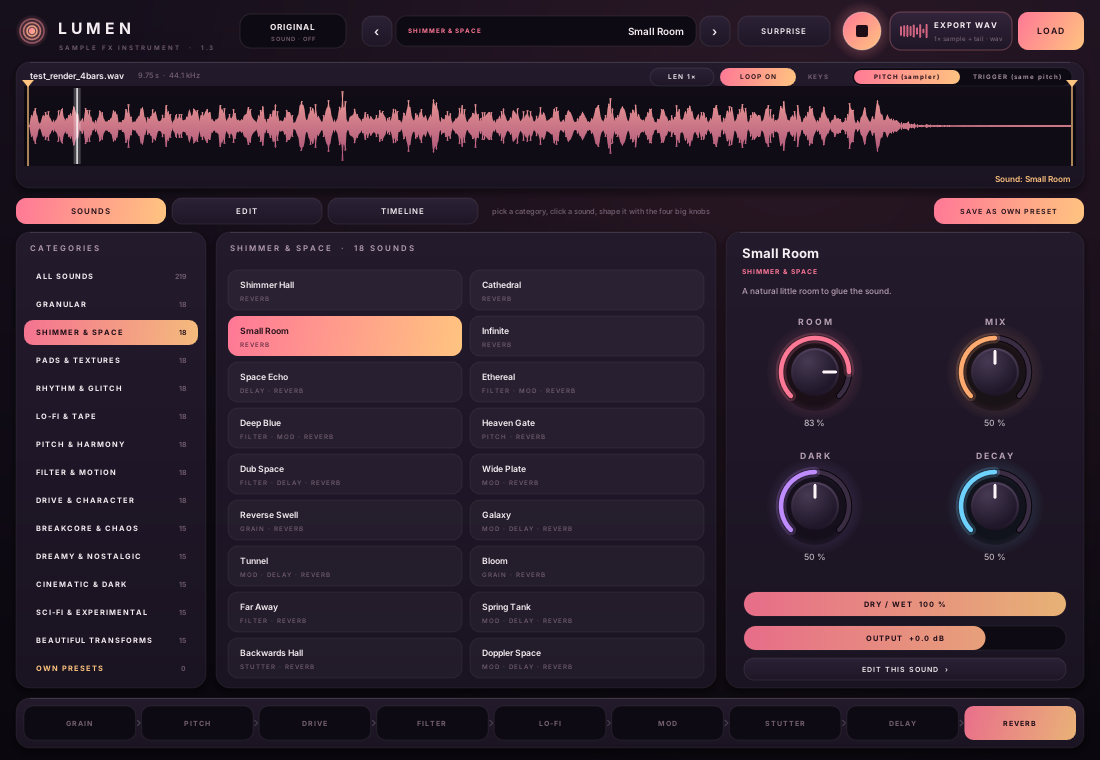
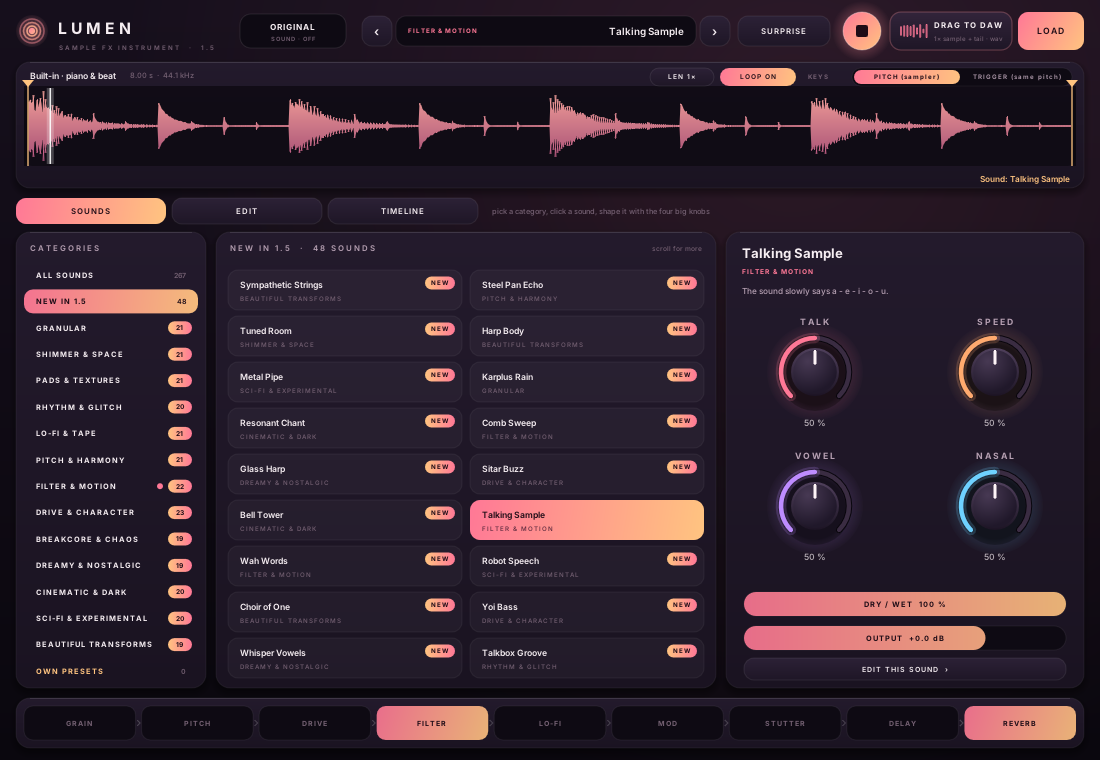
Lumen 1.5: manual and screenshots
Claude-Session: https://claude.ai/code/session_01H1Pe3uz1SipoMQuwfC6wB7

diff --git a/docs/make_lumen_manual.py b/docs/make_lumen_manual.py
@@ -25,26 +25,33 @@ def table(rows, widths, style=B):
                            ("LEFTPADDING", (0, 0), (-1, -1), 6), ("RIGHTPADDING", (0, 0), (-1, -1), 6)]))
     return t
 
-story = [Paragraph("Lumen", TITLE), Paragraph("Sample effect instrument &mdash; user manual, version 1.4", S), Spacer(1, 4 * mm),
+story = [Paragraph("Lumen", TITLE), Paragraph("Sample effect instrument &mdash; user manual, version 1.5", S), Spacer(1, 4 * mm),
          Image(shot, width=165 * mm, height=165 * mm * 760 / 1100), Spacer(1, 3 * mm)]
 
 story += [Paragraph("What it is", H2), P(
-    "Lumen plays your sample through <b>219 effect sounds in 13 categories</b>, plus your own: "
+    "Lumen plays your sample through <b>267 effect sounds in 13 categories</b>, plus your own: "
     "granular clouds, shimmering spaces, pads, rhythmic glitches, tape and lo-fi, pitch and harmony, filter motion and drive, breakcore, dreamy, cinematic and sci-fi sounds &mdash; and <b>Beautiful Transforms</b>: "
-    "sounds that turn the sample into a choir, strings, glass, bells or wind chimes. "
+    "sounds that turn the sample into a choir, strings, glass, bells or wind chimes. Version 1.5 adds 48 sounds made with four new engine parts: tuned strings and bells (COMB), a talking filter that shapes your sample into vowels (VOWEL), octave fuzz (RECTIFY) and a frequency shifter that makes endless rising and falling spirals (SHIFT). "
     "Pick a sound, turn the four big knobs, and drag the result straight into FL Studio. "
-    "It is an instrument (it shows up in your instrument list, not under effects). VST3 and CLAP for Windows 10/11 (64-bit). "
+    "It is an instrument (it shows up with the instruments, not under effects). VST3 and CLAP for Windows 10/11 (64-bit). "
     "Loads WAV, AIFF, FLAC, MP3, OGG, Opus, M4A/AAC, ALAC and WMA, and the sound of video files (MP4, MOV, MKV, WEBM, AVI, WMV): "
     "drop a video and Lumen takes its audio.")]
 
+story += [Paragraph("New in 1.5", H2), P(
+    "<b>Drag and drop:</b> drag a sample from FL Studio's browser on the left (or from Explorer, the desktop, or anywhere else) straight onto the Lumen window. "
+    "The window lights up with <i>DROP TO LOAD</i>; let go and the sample is loaded. The sound you have chosen stays the same.<br/>"
+    "<b>48 new sounds</b> with four new engine parts (see EDIT below). The first time you open Lumen 1.5 it shows the new category <b>NEW IN 1.5</b>. "
+    "Every new sound has a <b>NEW</b> badge until you have tried it once, and categories that still hold untried sounds show their count in a small glowing pill. "
+    "Which sounds you have tried is kept in <font face='Courier'>Documents\\Lumen\\tried.txt</font>.")]
+
 story += [Paragraph("Install", H2), P(
-    "Run <b>Lumen-1.4-Windows-Setup.exe</b> (installing over any older Lumen is fine, and your projects keep their sounds; close your DAW first). It installs Lumen.vst3 to <font face='Courier'>C:\\Program Files\\Common Files\\VST3</font>, "
+    "Run <b>Lumen-1.5-Windows-Setup.exe</b> (installing over any older Lumen is fine, and your projects keep their sounds; close your DAW first). It installs Lumen.vst3 to <font face='Courier'>C:\\Program Files\\Common Files\\VST3</font>, "
     "Lumen.clap to <font face='Courier'>...\\Common Files\\CLAP</font> and this manual to <font face='Courier'>C:\\Program Files\\Lumen</font>. "
     "<b>FL Studio:</b> Options &rarr; Manage plugins &rarr; <i>Find installed plugins</i>; Lumen appears with the instruments (Generators). "
     "SmartScreen may warn because the installer isn't code-signed: <i>More info</i> &rarr; <i>Run anyway</i>.")]
 
 story += [Paragraph("Quick start", H2), P(
-    "1. Press <b>LOAD</b> and pick your sample (Lumen starts with a built-in piano-and-beat loop so you can try it right away).<br/>"
+    "1. <b>Drag a sample</b> from FL Studio's browser (or anywhere) onto Lumen, or press <b>LOAD</b> and pick it (Lumen starts with a built-in piano-and-beat loop so you can try it right away).<br/>"
     "2. Press <b>Play</b> (the round button at the top). The sample plays from start to end; with <b>LOOP ON</b> it repeats.<br/>"
     "3. Click a <b>category</b> on the left, then click a <b>sound</b>. You hear it immediately.<br/>"
     "4. Turn the <b>four big knobs</b> &mdash; their names change with every sound (e.g. SHIMMER, SIZE, WOBBLE, AGE).<br/>"
@@ -75,7 +82,8 @@ story += [Paragraph("The main screen", H2), table([
     ["LOOP", "On: the sample repeats (with a tiny crossfade so the loop doesn't click). Off: it plays once."],
     ["KEYS", "MIDI keys also play the sample. <b>PITCH</b>: like a sampler, C3 = original, other keys transpose. <b>TRIGGER</b>: every key "
              "plays it at the original pitch."],
-    ["Categories / sounds", "Thirteen categories (15 to 18 sounds each), OWN PRESETS, or ALL SOUNDS (scroll with the wheel). A dot marks the category of the current sound."],
+    ["Categories / sounds", "Thirteen categories (19 to 23 sounds each), NEW IN 1.5, OWN PRESETS, or ALL SOUNDS (scroll with the wheel). A dot marks the category of the current sound. "
+                            "<b>NEW</b> badges mark sounds you have not tried yet."],
     ["Four big knobs", "Each sound gives you four macros that change several settings at once. Double-click or right-click resets a knob to the sound's default."],
     ["DRY / WET, OUTPUT", "Blend dry/effect, and the overall volume. All sounds are level-matched so switching doesn't jump in loudness."],
     ["Chain (bottom row)", "The nine effect modules in signal order. Lit = on. Click one to switch it on or off."],
@@ -93,10 +101,13 @@ story += [table([
                 "SPREAD (how far back and how wide), REVERSE (share of backwards grains), JITTER (random timing, pitch and octave jumps), "
                 "FREEZE (holds the moment forever)."],
     ["2 PITCH", "Two pitch-shifted copies: VOICE A/B (&plusmn;24 semitones) with their LEVELs, plus DRY. Octaves, fifths and chords."],
-    ["3 DRIVE", "SOFT, HARD, FOLD, FUZZ or TUBE distortion with AMOUNT, TONE and MIX. Level is compensated automatically."],
-    ["4 FILTER", "LP / HP / BP / NOTCH with CUTOFF and RESO, an LFO (RATE, DEPTH) and ENVELOPE (opens with loudness, or closes when negative)."],
+    ["3 DRIVE", "SOFT, HARD, FOLD, FUZZ, TUBE or RECTIFY (octave-up fuzz) distortion with AMOUNT, TONE and MIX. Level is compensated automatically."],
+    ["4 FILTER", "LP / HP / BP / NOTCH with CUTOFF and RESO, an LFO (RATE, DEPTH) and ENVELOPE (opens with loudness, or closes when negative). "
+                 "<b>COMB</b> tunes the sound like a plucked string or bell: CUTOFF picks the note (shown as e.g. A2 &middot; 110 Hz), RESO how long it rings. "
+                 "<b>VOWEL</b> makes the sample talk: CUTOFF slides through a-e-i-o-u, and the LFO and ENVELOPE make it speak by themselves."],
     ["5 LO-FI", "BITS and RATE (bitcrush, sample-rate reduction), WOW and FLUTTER (tape wobble), HISS, CRACKLE (vinyl) and AGE (old-speaker band limit)."],
-    ["6 MOD", "CHORUS, FLANGER, PHASER, TREMOLO, PAN, RING (robot) or VIBRATO with RATE, DEPTH, FEEDBACK and MIX."],
+    ["6 MOD", "CHORUS, FLANGER, PHASER, TREMOLO, PAN, RING (robot), VIBRATO or <b>SHIFT</b> with RATE, DEPTH, FEEDBACK and MIX. "
+              "SHIFT moves every frequency up (DEPTH above the middle) or down (below) by the same number of Hz: metallic, inharmonic, and with FEEDBACK an endless rising or falling spiral."],
     ["7 STUTTER", "Tempo-synced: REPEAT (repeats the last piece), GATE (rhythmic chopping, 8 patterns), TAPE STOP, REVERSE (pieces play backwards), "
                   "HALF (half speed) and STUTTER (quick rolls; PATTERN picks 1/16, 1/32 or 1/64 rolls, triplets, speeding up, slowing down, RIPPLE (rising steps) or SCATTER). DIVISION sets the piece length, AMOUNT how often (or how deep for GATE)."],
     ["8 DELAY", "Tempo-synced echo (1/32 to 1/1, dotted values), FEEDBACK, TONE, WOBBLE, MIX and PING-PONG."],
@@ -140,13 +151,14 @@ story += [Paragraph("Tips and troubleshooting", H2), P(
     "<b>No sound:</b> press Play or play a key (C3 = original). Check DRY / WET and OUTPUT. "
     "<b>Too much effect:</b> lower DRY / WET, or compare with ORIGINAL. <b>Clicks at the loop point:</b> move the start/end handles to quieter spots. "
     "<b>Project reload:</b> the sample path is saved with the project, so keep the file where it is. "
+    "<b>Drop does nothing:</b> drop audio or video files only (folders and other files are ignored). If FL Studio runs as administrator, Windows blocks dragging from Explorer into it; dragging from FL's own browser still works. "
     "Renders go to <font face='Courier'>Documents\\Grainfield Renders</font>.")]
 
 # ---- all sounds
 src = open(os.path.join(os.path.dirname(os.path.abspath(__file__)), '..', 'plugins', 'Lumen', 'LumenPresets.hpp')).read()
 cats = ["Granular", "Shimmer & Space", "Pads & Textures", "Rhythm & Glitch", "Lo-Fi & Tape", "Pitch & Harmony", "Filter & Motion", "Drive & Character", "Breakcore & Chaos", "Dreamy & Nostalgic", "Cinematic & Dark", "Sci-Fi & Experimental", "Beautiful Transforms"]
 items = re.findall(r'\{ "((?:[^"\\]|\\.)*)", (\d+), "((?:[^"\\]|\\.)*)", kPV', src)
-story += [CondPageBreak(60 * mm), Paragraph("All 219 sounds", H2)]
+story += [CondPageBreak(60 * mm), Paragraph("All %d sounds" % len(items), H2)]
 for c, cname in enumerate(cats):
     rows = [["Sound", "What it is"]] + [[n, d.replace('\\"', '"')] for n, cc, d in items if int(cc) == c]
     story += [CondPageBreak(40 * mm), Paragraph(cname, H3), table(rows, [42 * mm, 128 * mm], S)]
@@ -157,7 +169,7 @@ story += [Paragraph("Credits", H2), Paragraph(
 
 def bg(c, d):
     c.saveState(); c.setFillColor(ACC); c.rect(0, A4[1] - 6, A4[0], 6, stroke=0, fill=1)
-    c.setFont("Helvetica", 8); c.setFillColor(DIM); c.drawRightString(A4[0] - 20 * mm, 10 * mm, "Lumen 1.4  \u00b7  page %d" % d.page); c.restoreState()
+    c.setFont("Helvetica", 8); c.setFillColor(DIM); c.drawRightString(A4[0] - 20 * mm, 10 * mm, "Lumen 1.5  \u00b7  page %d" % d.page); c.restoreState()
 
 SimpleDocTemplate(out, pagesize=A4, leftMargin=20 * mm, rightMargin=20 * mm, topMargin=15 * mm, bottomMargin=15 * mm,
                   title="Lumen Manual", author="Grainfield Audio").build(story, onFirstPage=bg, onLaterPages=bg)
